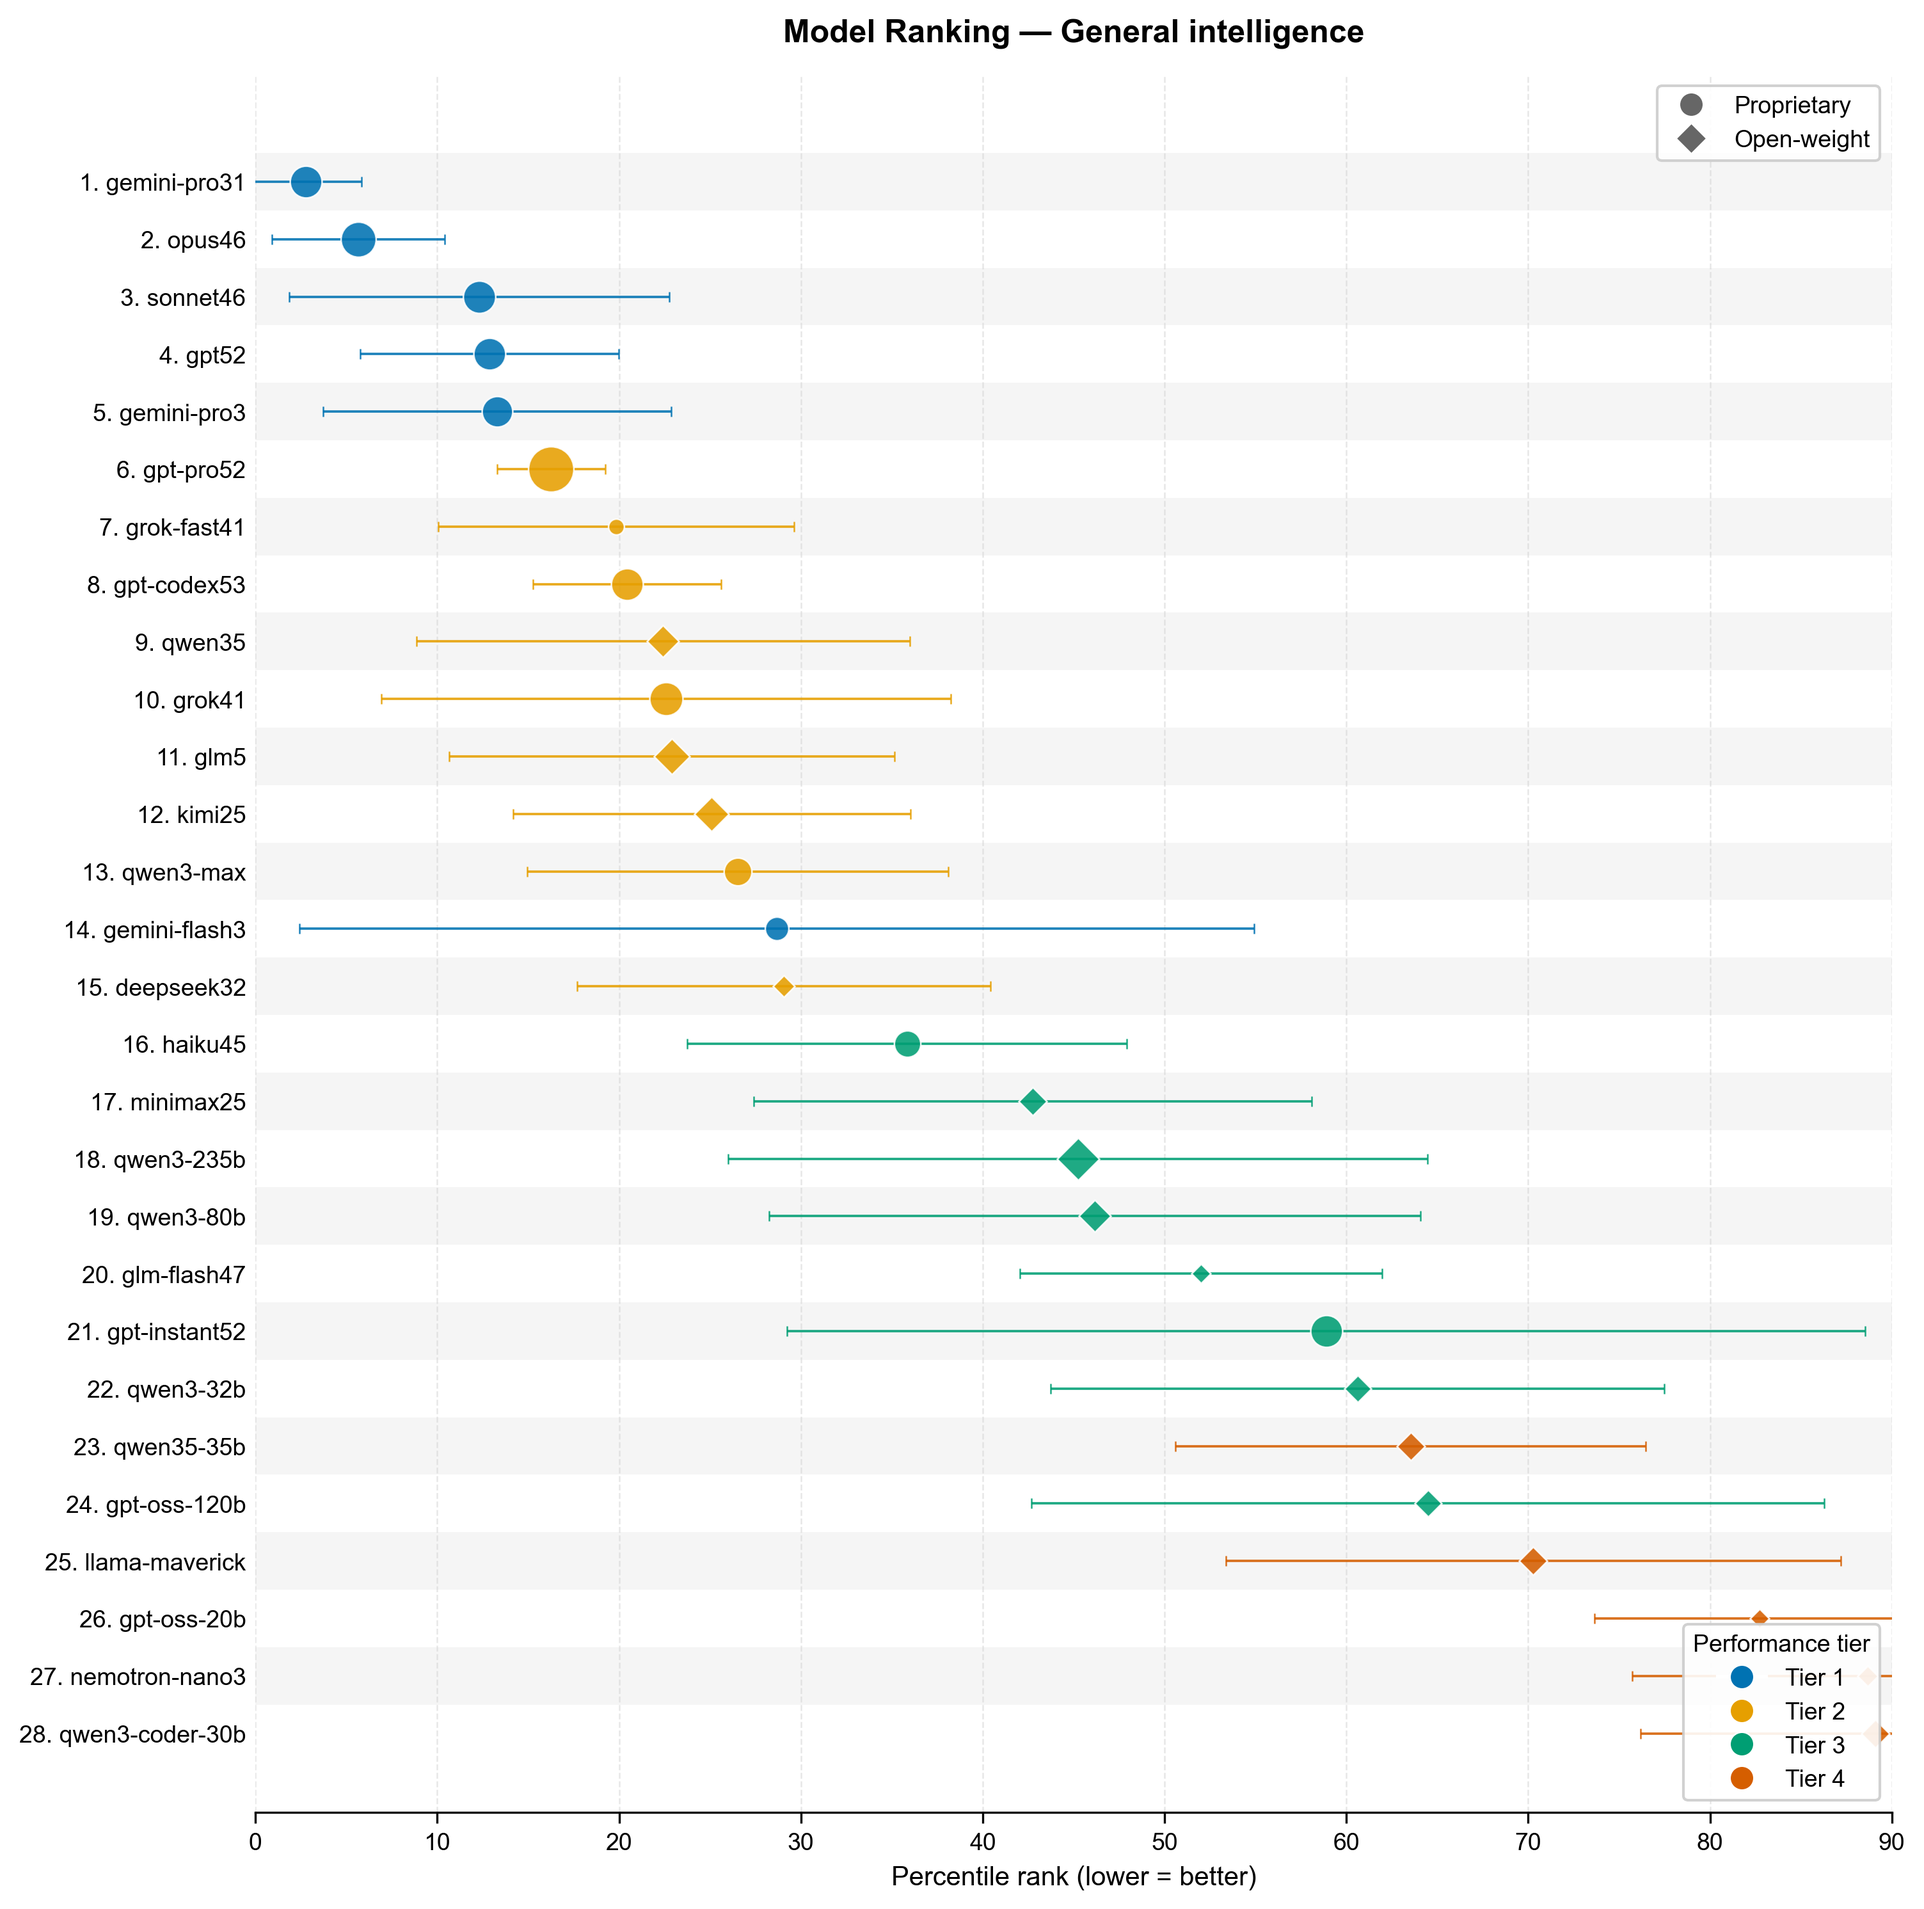
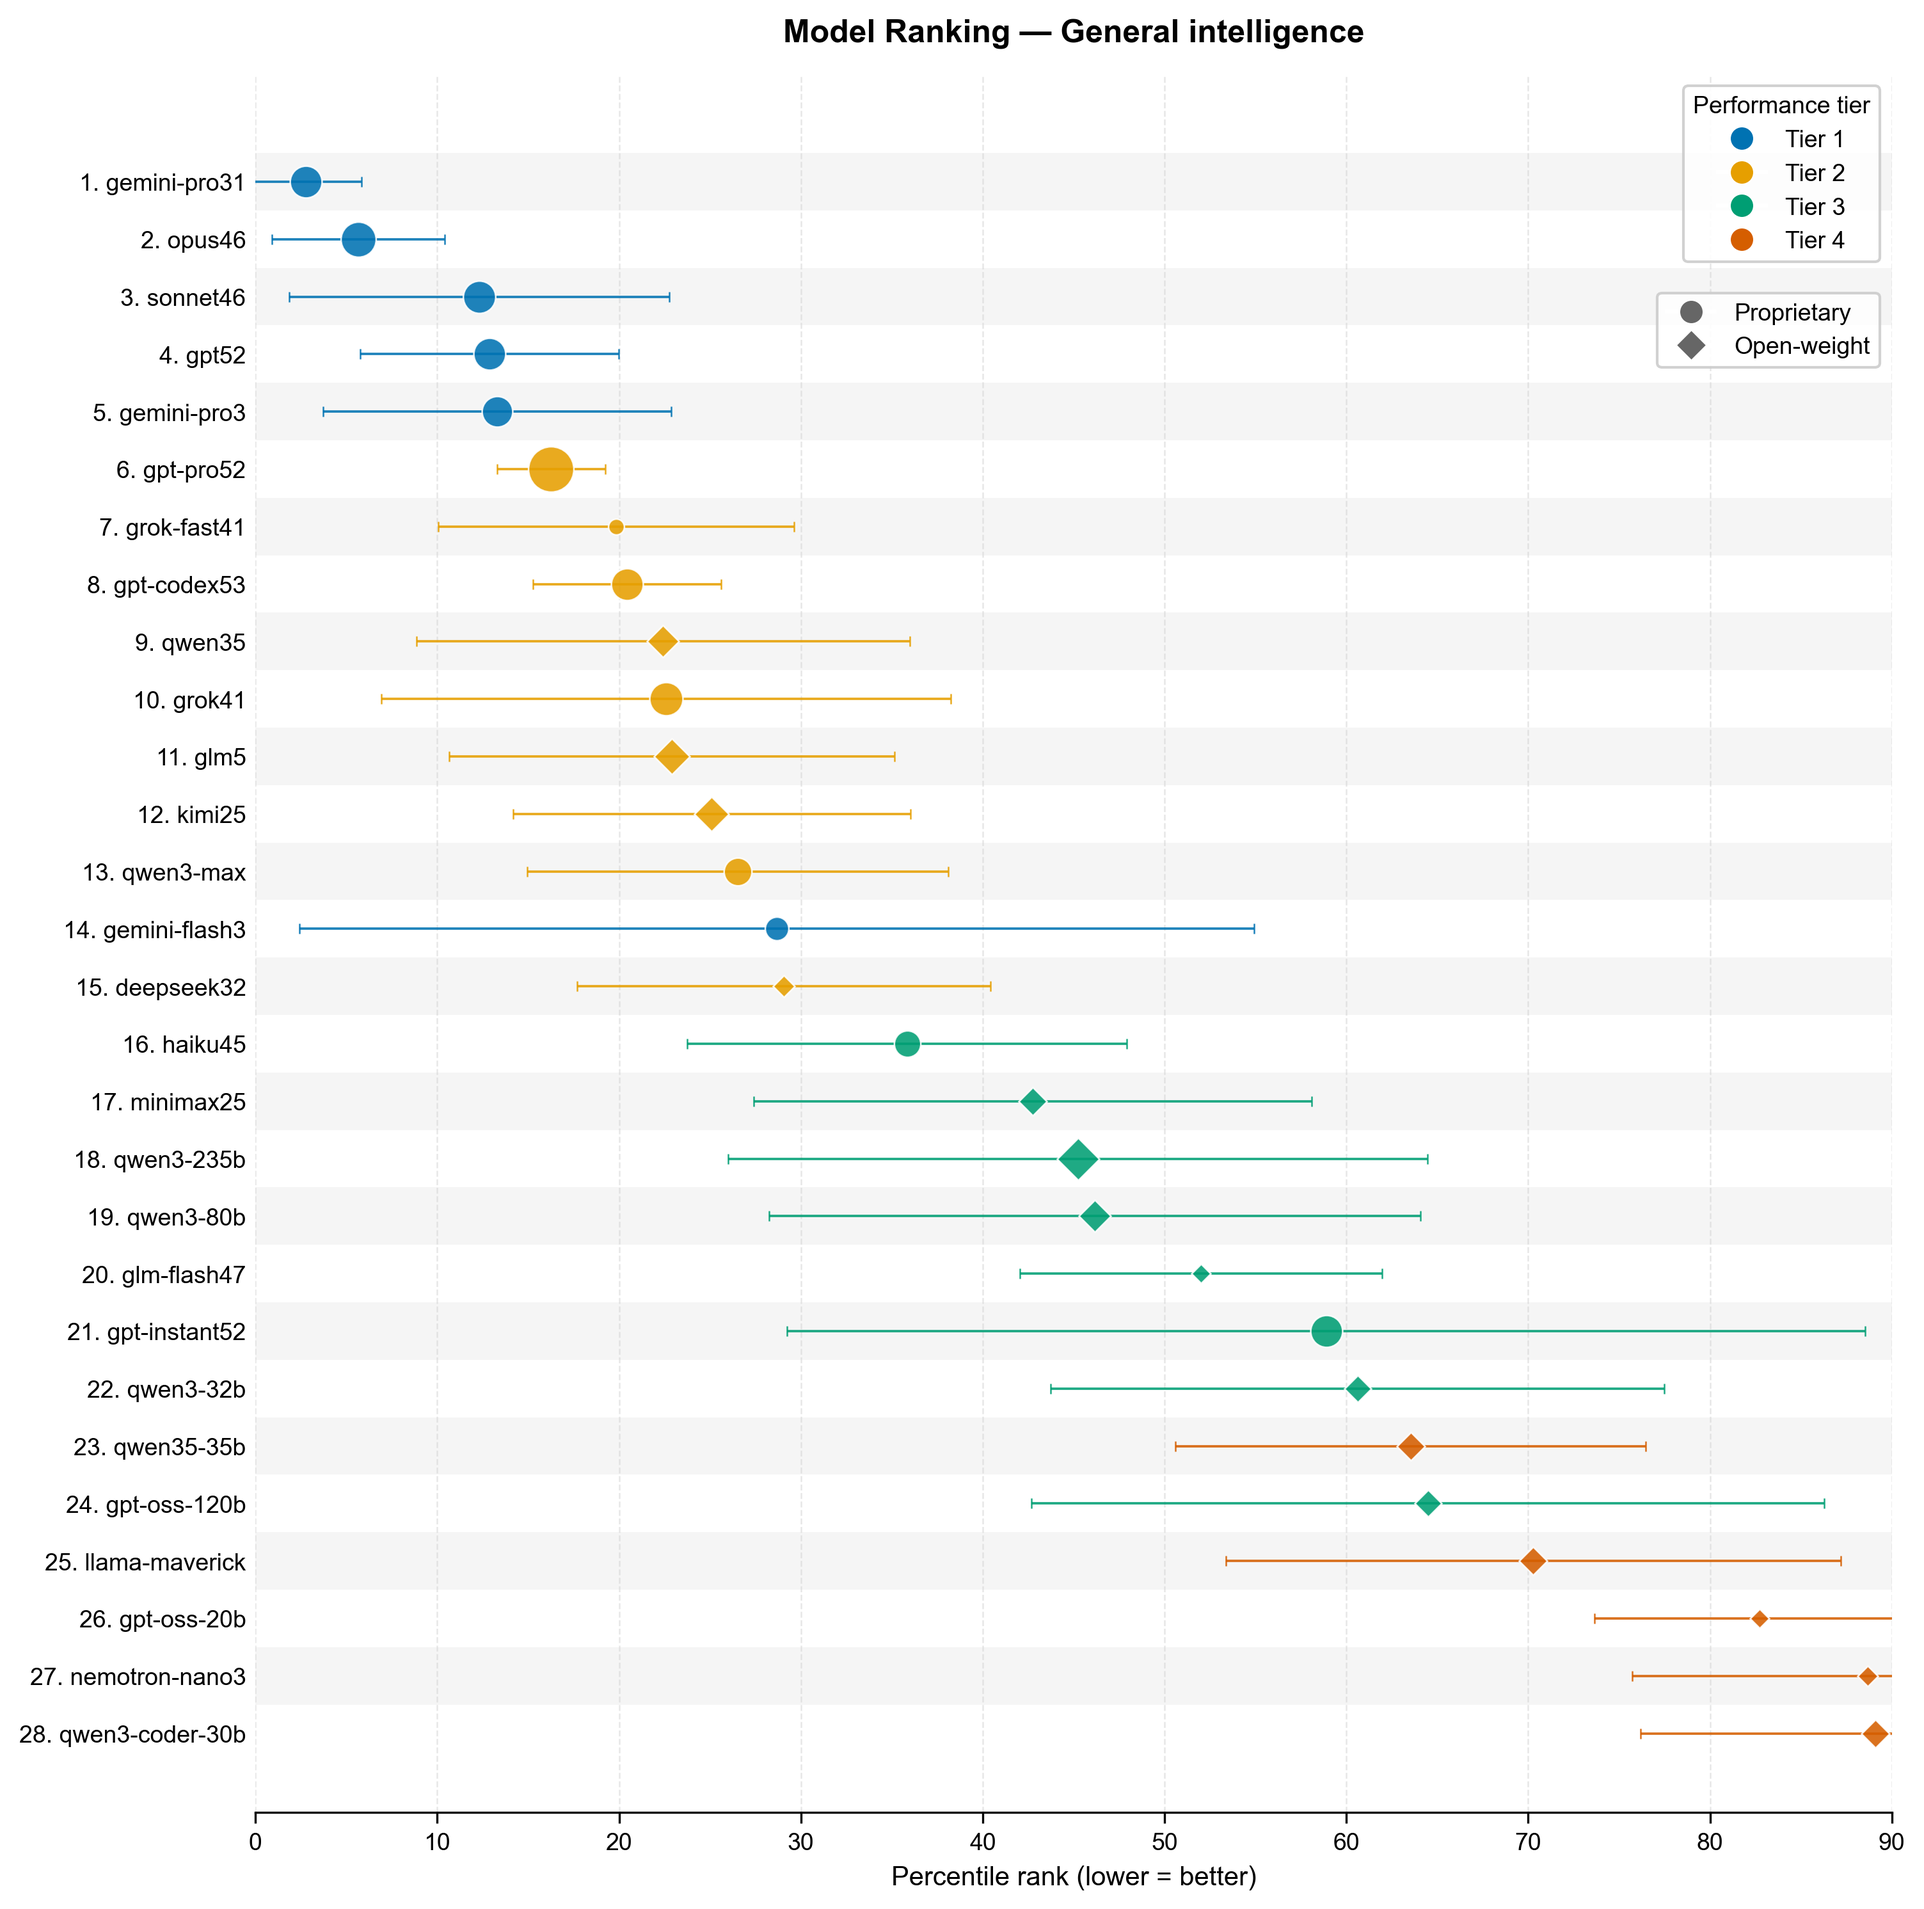
move ranking plot legends to top right, stacked without overlap

Changed region(s): [[0.866, 0.0312, 0.9897, 0.1871], [0.866, 0.8418, 0.9897, 0.9353]]

diff --git a/rank_models.py b/rank_models.py
@@ -538,7 +538,7 @@ def create_ranking_plot(
         upper_limit = get_y_upper_limit(max_score)
         ax.set_xlim(left=0, right=upper_limit)
 
-        # Tier legend
+        # Tier legend (top right)
         tier_legend = [
             Line2D(
                 [0], [0], marker="o", color="w",
@@ -548,10 +548,14 @@ def create_ranking_plot(
             )
             for tier_num in sorted(set(tier_mapping.values()))
         ]
-        leg1 = ax.legend(handles=tier_legend, loc="lower right", title="Performance tier")
+        leg1 = ax.legend(handles=tier_legend, loc="upper right", title="Performance tier")
         ax.add_artist(leg1)
 
-        # Marker-type legend
+        # Marker-type legend: placed just below tier legend
+        fig.canvas.draw()
+        leg1_bb = leg1.get_window_extent()
+        leg1_bottom_y = ax.transAxes.inverted().transform((0, leg1_bb.y0))[1]
+
         marker_legend = [
             Line2D(
                 [0], [0], marker="o", color="w", markerfacecolor="#666666",
@@ -562,7 +566,12 @@ def create_ranking_plot(
                 markersize=8, label="Open-weight", markeredgecolor="white", markeredgewidth=0.6,
             ),
         ]
-        ax.legend(handles=marker_legend, loc="upper right")
+        ax.legend(
+            handles=marker_legend,
+            loc="upper right",
+            bbox_to_anchor=(1, leg1_bottom_y - 0.01),
+            bbox_transform=ax.transAxes,
+        )
 
         fig.savefig(output_filename)
         plt.close(fig)
